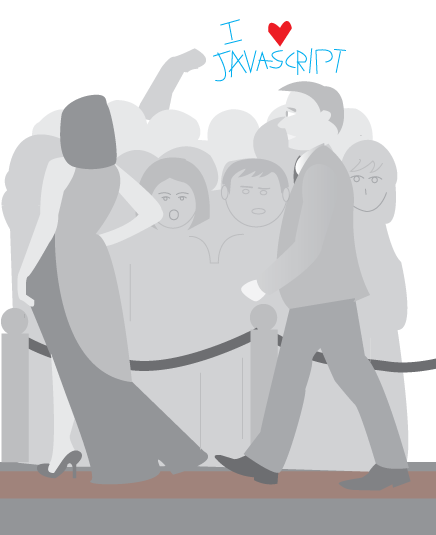
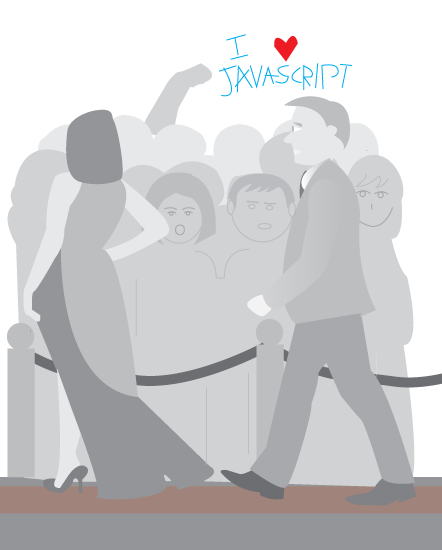
replace assets sills view

diff --git a/app/components/website/skills.html b/app/components/website/skills.html
@@ -22,20 +22,6 @@
   </div>
 </div>  
 
-
-
-
-
-
-  
-
-
- 
-
-
-
-
-
 <style>
     .right.carousel-control, .left.carousel-control {
     opacity: 0;
@@ -46,14 +32,21 @@ ol.carousel-indicators {
     opacity: 0;
     filter:alpha(opacity=0); /* IE support */
 }
-    .test{
-        
-        
+    /*.test{    
         background-image:  url('../../assets/images/seats.png');
         background-position: bottom center;
         background-repeat: no-repeat;
         background-color:black;
         background-size: cover;
+        height: 100vh;
+    }*/
+
+     .test{    
+        background-image:  url('../../assets/images/seats.png'), url('../../assets/images/m-theatre.png');
+        background-position: bottom center, center center;
+        background-repeat: no-repeat, no-repeat;
+        background-color:black;
+        background-size: 100% ;
         height: 100vh;
     }
 
@@ -67,8 +60,13 @@ img{
 #slides_control {
   position:absolute;
   width: 800px;
-  left:40%;
-  top:10%;
- margin-left:-200px;
+  /*left:40%;
+  top:15%;
+ margin-left:-200px;*/
+ margin-left: auto;
+margin-right: auto;
+left: 0;
+right: 0;
+top:13%;
 }
 </style>

diff --git a/app/components/website/website.html b/app/components/website/website.html
@@ -101,13 +101,13 @@
         <div class="box one">
             <div class="inner4A">
                 <div>
-                    <a ui-sref="recent" ><img src="../assets/images/z-recent.png" ></a>
+                    <a  ui-sref="recent" ><img  src="../assets/images/z-recent.png" ></a>
                 </div>
                 <div>
                     <a ui-sref="skills"><img src="../assets/images/skill.png" ></a>
                 </div>
                 <div>
-                    <a ui-sref="contact"><img src="../assets/images/z-contact.png" ></a>
+                    <a  ui-sref="contact"><img src="../assets/images/z-contact.png" ></a>
                 </div>
             </div>
         </div>

diff --git a/app/components/website/website.css b/app/components/website/website.css
@@ -468,7 +468,7 @@ img {
     background-position: bottom right, top right;
     /*background: cover;*/
     flex-grow: 1;
-    background-size: 100% 48%, 89% 100%;
+    background-size: 100% 54%, 88% 100%;
     display: flex;
     flex-direction: column;
     justify-content: flex-end;   
@@ -494,6 +494,7 @@ img {
     font-size: 38px;
     color: white;
 }
+
 
 
 /*
@@ -616,6 +617,9 @@ img {
 
     img {
         width: 90%;
+    }
+    .img2{
+       visibility: hidden; 
     }
 }
 
